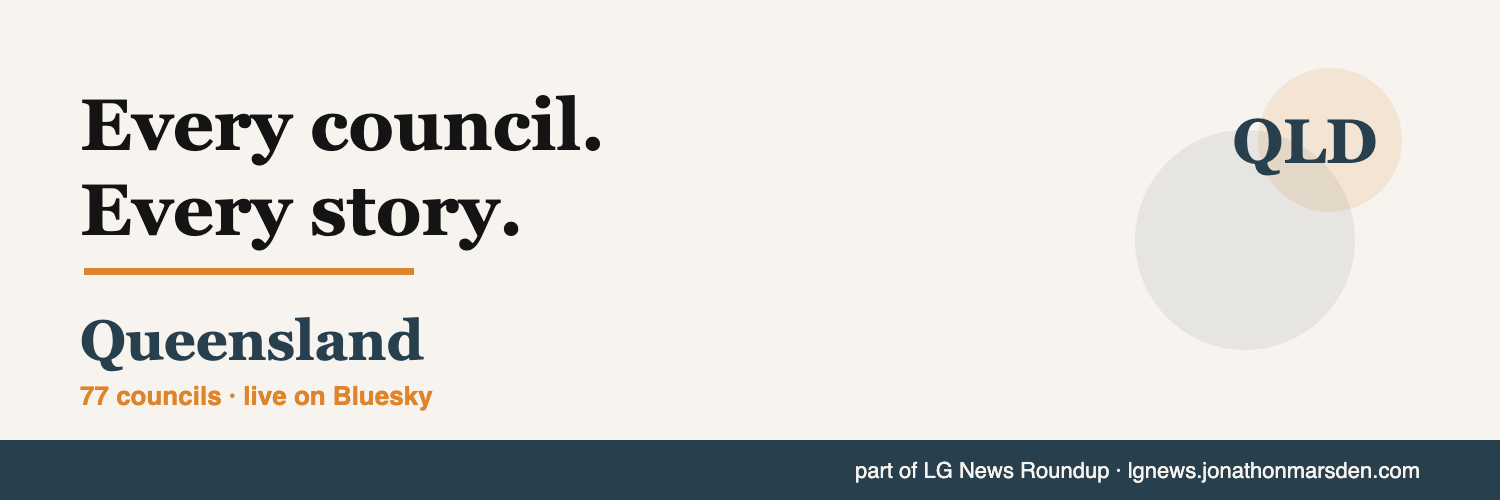
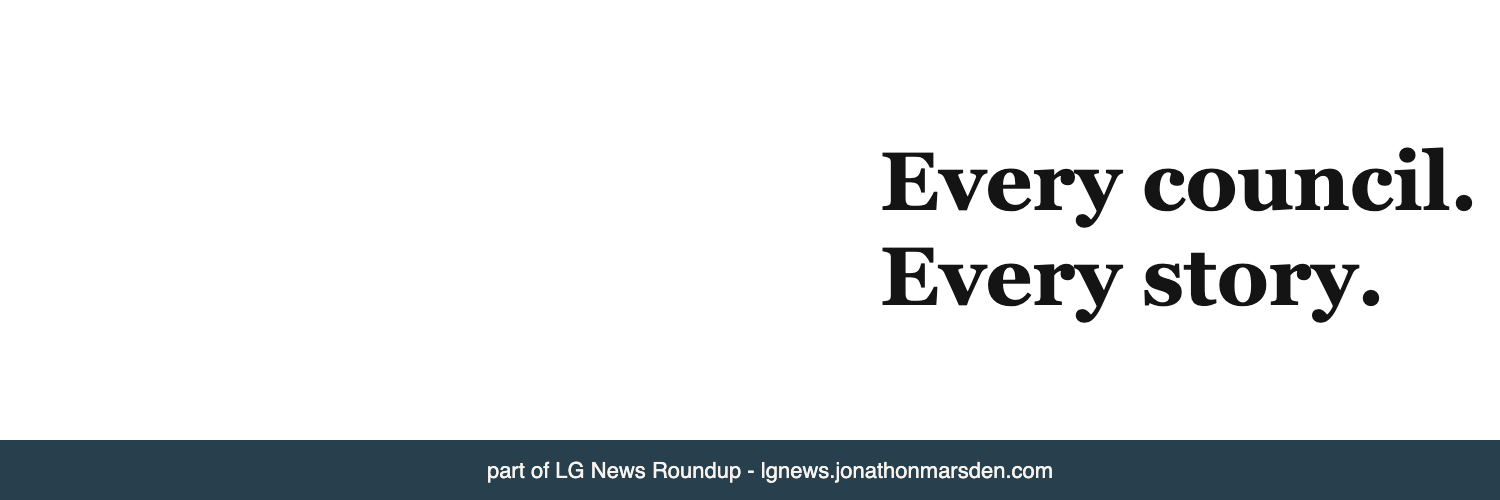
refresh: finalise Bluesky branding across all 8 state feeds (PR 15)
Updates the prepared branding assets to match what is now live:
- Banners: two-line 'Every council. Every story.' on white, no state
  name or council count, footer attribution to LG News Roundup.
- profiles.json: clean display names (e.g. 'Victoria Council News'),
  bios crediting @jonathonmarsden.com, and pinned-post text rewritten
  to read clearly. Plain dashes throughout; no emoji anywhere.

Also removes the emoji-rendering ntfy tags from the feed-health monitor,
per the project-wide no-emoji rule.

diff --git a/scripts/monitoring/check_feed_health.py b/scripts/monitoring/check_feed_health.py
@@ -94,7 +94,6 @@ def push_ntfy(ntfy_url, healthy, lines):
     headers = {
         "Title": title,
         "Priority": "default" if healthy else "high",
-        "Tags": "white_check_mark" if healthy else "rotating_light",
     }
     token = os.environ.get("NTFY_TOKEN")
     if token:
